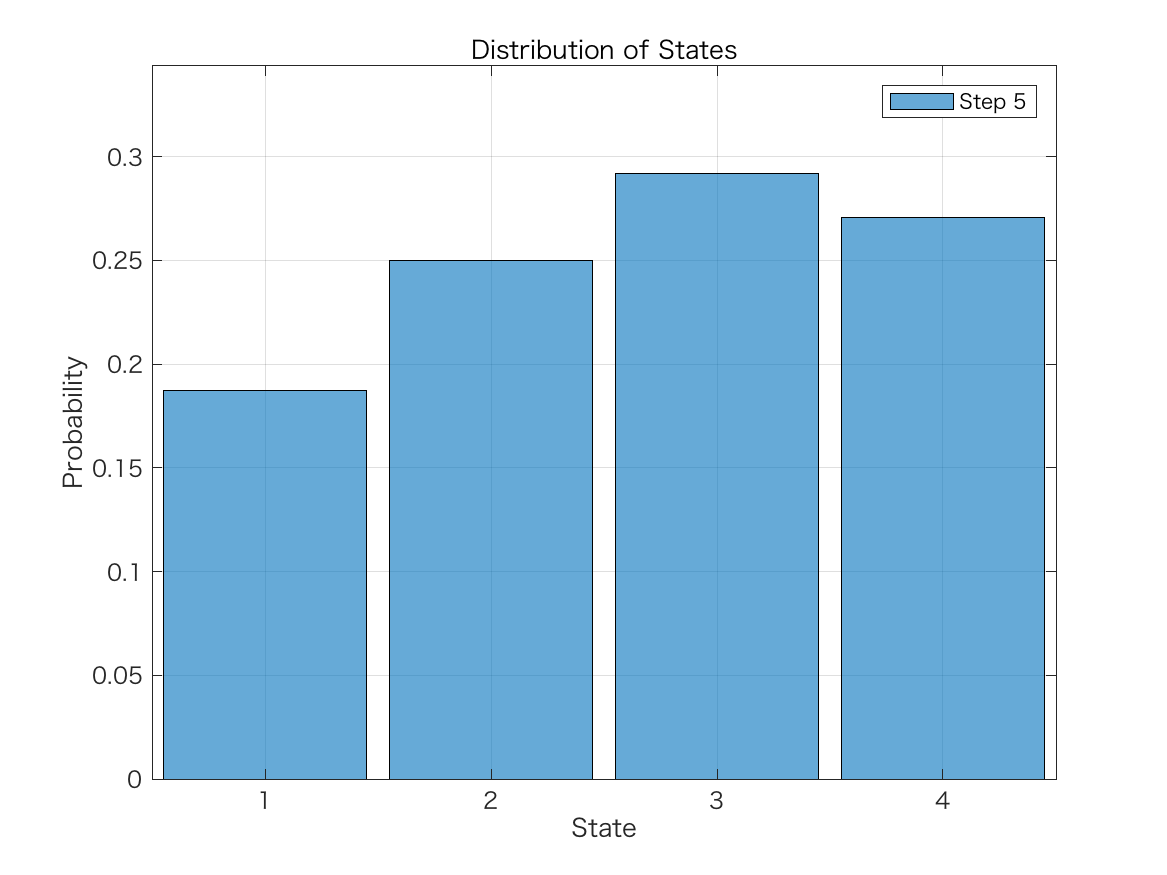
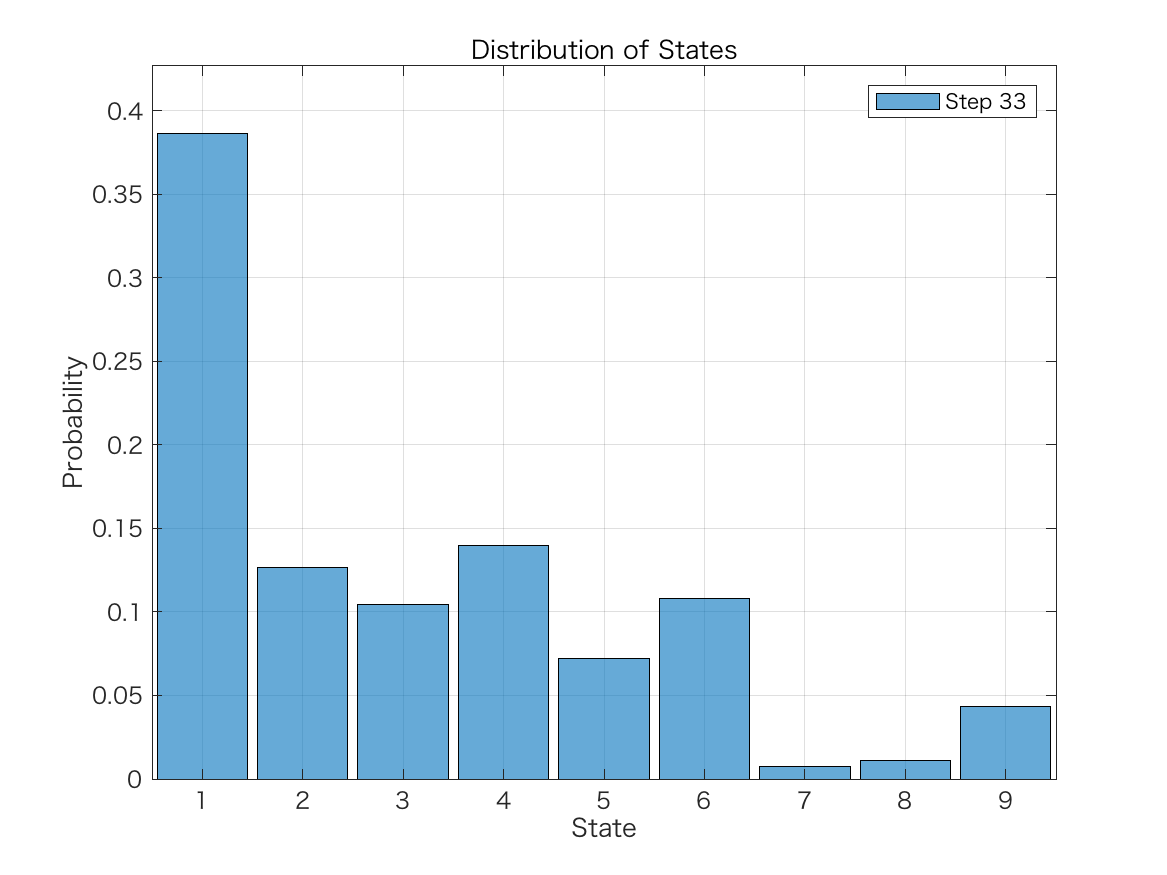
推移確率行列のCSVでの取り込み追加

diff --git a/src/matlabjava10/MatlabJava10_main.java b/src/matlabjava10/MatlabJava10_main.java
@@ -1,18 +1,54 @@
 package matlabjava10;
 
+import java.io.BufferedReader;
+import java.io.File;
+import java.io.FileReader;
+import java.io.IOException;
 import java.util.Arrays;
 
 public class MatlabJava10_main {
 
 	public static void main(String[] args) {
 		// TODO Auto-generated method stub
-		double data_transition[][] = {{ 0.25, 0.25, 0.5, 0 }, { 0, 0.25, 0.5, 0.25 }, { 0.25, 0.25, 0.25, 0.25 }, { 0.25, 0.25, 0, 0.5}};
+		//double data_transition[][] = {{ 0.25, 0.25, 0.5, 0 }, { 0, 0.25, 0.5, 0.25 }, { 0.25, 0.25, 0.25, 0.25 }, { 0.25, 0.25, 0, 0.5}};
+		MatlabJava10_main mmain = new MatlabJava10_main();
+		double data_transition[][] = mmain.getCSV("csv/transition_all.csv", 9, 9);
 		MatlabJava10_lib mlib = new MatlabJava10_lib(data_transition);
 		
-		double initial[] = {0.25, 0.25, 0.25, 0.25};
-		double n = 2.0;
-		double [][] transition = mlib.getTransition(n, initial);
+		//double initial[] = {0.25, 0.25, 0.25, 0.25};
+		double initial[][] = mmain.getCSV("csv/initial_all.csv", 2, 9);
+		double n = 20.0;
+		double [][] transition = mlib.getTransition(n, initial[0]);
 		System.out.println("Transition("+ n + ") = "+Arrays.deepToString(transition));
+		System.out.println("Difference = "+mlib.getDifference(initial[1], transition[0]));
+	}
+
+	public double[][] getCSV(String path, int row, int column) {
+		//CSVから取り込み
+		double data[][] = new double[row][column];
+		try {
+			File f = new File(path);
+			BufferedReader br = new BufferedReader(new FileReader(f));
+			String[][] tmp = new String[row][column]; 	 
+			String line = br.readLine();
+			for (int i = 0; line != null; i++) {
+				tmp[i] = line.split(",", 0);
+				line = br.readLine();
+			}
+			br.close();
+
+			// CSVから読み込んだ配列の中身を処理
+			for(int i = 0; i < tmp.length; i++) {
+				for(int j = 0; j < tmp[0].length; j++) {
+					data[i][j] = Double.parseDouble(tmp[i][j]);
+				}
+			} 
+
+		} catch (IOException e) {
+			System.out.println(e);
+		}
+		//CSVから取り込みここまで
+		return data;
 	}
 
 }

diff --git a/src/matlabjava10/MatlabJava10_lib.java b/src/matlabjava10/MatlabJava10_lib.java
@@ -57,7 +57,7 @@ public class MatlabJava10_lib {
 			ml.eval("pause(5);");
 			//定常分布のシミュレーション
 			ml.eval("mc0 = dtmc(data);");
-			ml.eval("numSteps = 5;");
+			ml.eval("numSteps = 33;");
 			ml.eval("pi0 = initial;");
 			//ml.eval("pi0 = [0.25 0.25 0.25 0.25];");
 			ml.eval("pi_n = redistribute(mc0,numSteps,'X0',pi0);");
@@ -92,5 +92,10 @@ public class MatlabJava10_lib {
 		return outputs;
 	}
 
+	public double getDifference(double[] end, double stationary[]) {
+		double differ = 0;
+		for(int i = 0; i < end.length; i++) differ += Math.pow(end[i] - stationary[i], 2);
+		return differ;
+	}
 
 }
